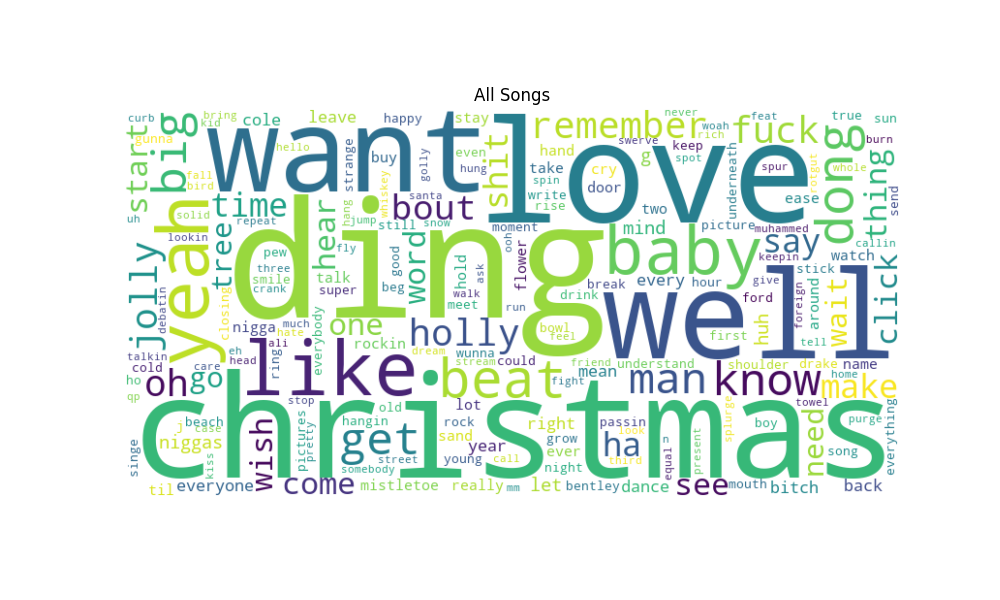
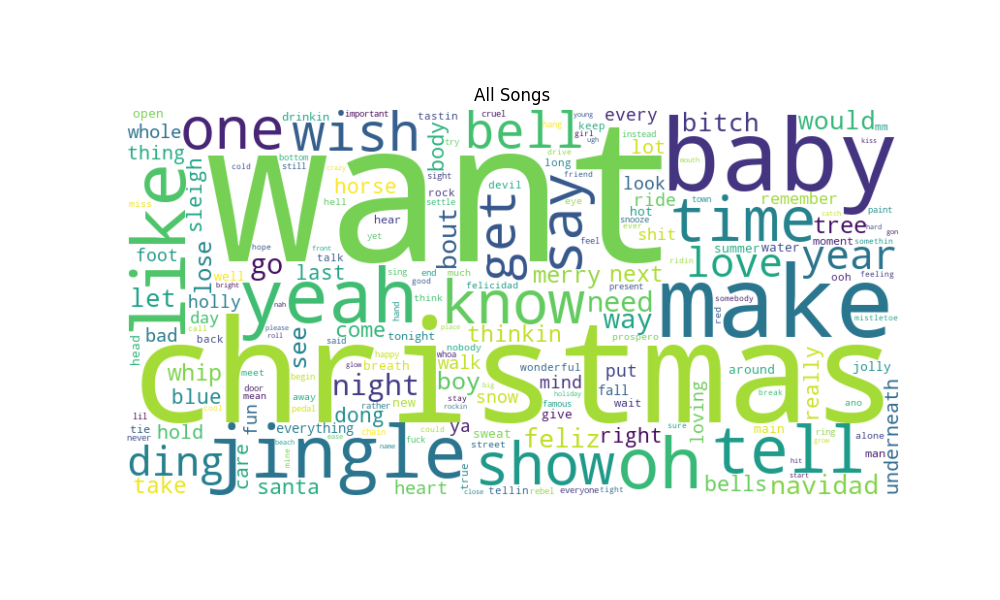
final code cleanup

diff --git a/main.py b/main.py
@@ -5,25 +5,27 @@ import os
 from datetime import date
 import matplotlib.pyplot as plt
 from nrclex import NRCLex
+import pytextrank
 import nltk
 import spacy
-import pytextrank
 from sklearn.feature_extraction.text import TfidfVectorizer
 from sklearn.feature_extraction.text import CountVectorizer
-import pandas as pd
 import numpy as np
 import networkx as nx
-from transformers import pipeline, LongformerTokenizer, LongformerForSequenceClassification
+import warnings
 
-# Load the Longformer tokenizer and model
+warnings.filterwarnings("ignore")
+
+# from transformers import pipeline, LongformerTokenizer, LongformerForSequenceClassification
 # tokenizer = LongformerTokenizer.from_pretrained("allenai/longformer-base-4096")
 # model = LongformerForSequenceClassification.from_pretrained("allenai/longformer-base-4096")
 
 def most_common(song_name, lyrics, plot = False):
     # most common words across all songs
-    normalized_corpus = nltk.word_tokenize(lyrics)
+    lyrics = tn.remove_stopwords(lyrics)
+    lyrics = nltk.word_tokenize(lyrics)
     from collections import Counter
-    c = Counter(normalized_corpus)
+    c = Counter(lyrics)
     print('Unique words: ', len(c))
     most_frequent = c.most_common(300)
     print('Most common word: ' + most_frequent[0][0])
@@ -67,7 +69,7 @@ def plot_NRCLex_emotion(data, title):
 def NRCLex_analysis(song_name, lyrics, plot = False):
     emotion = NRCLex(lyrics)
     data = emotion.affect_frequencies
-    print('emotion: ' + max(data, key=data.get))
+    print('Emotion: ' + max(data, key=data.get))
 
     if plot:
         plot_NRCLex_emotion(data, song_name)
@@ -119,8 +121,40 @@ def summarize(song_name, lyrics, plot = True):
         plt.savefig(path + song_name)
         plt.close()
 
-def individual_analysis(normalized_corpus):
+def tfidf_similarity(normalized_corpus, song_index_to_compare, plot = False):
+    song_names, song_lyrics = zip(*normalized_corpus)
 
+    tv = TfidfVectorizer(min_df=0., max_df=1., use_idf=True)
+    dt_matrix = tv.fit_transform(song_lyrics)
+    dt_matrix = dt_matrix.toarray()
+    similarity_vector = np.dot(dt_matrix, dt_matrix[song_index_to_compare])
+    most_sim_index = np.argmax(similarity_vector)
+    song_name = song_names[most_sim_index]
+    similarity_vector[most_sim_index] = -1
+    print('Most similar to: ' + song_names[np.argmax(similarity_vector)])
+
+    if plot:
+        similarity_graph = nx.Graph()
+        for i, (name, score) in enumerate(zip(song_names, similarity_vector)):
+            similarity_graph.add_node(i, label=name)
+            similarity_graph.add_edge(song_index_to_compare, i, weight=score)
+
+        plt.figure(figsize=(12, 12))
+        pos = nx.spring_layout(similarity_graph)
+        labels = nx.get_node_attributes(similarity_graph, 'label')
+        edge_labels = nx.get_edge_attributes(similarity_graph, 'weight')
+        nx.draw_networkx(similarity_graph, pos, node_color='lime', labels=labels, with_labels=True)
+        nx.draw_networkx_edge_labels(similarity_graph, pos, edge_labels=edge_labels, font_color='red')
+        plt.title(f"Similarity of {song_names[song_index_to_compare]} to Other Songs")
+        path = './plots/' + str(date.today()) + '/similarity/'
+        if not os.path.exists(path):
+            os.makedirs(path)
+        plt.savefig(path + song_name)
+        plt.close()
+
+
+def individual_analysis(normalized_corpus):
+    index = 0
     for song_name, lyrics in normalized_corpus:
         print('============={}============='.format(song_name.center(40, '=')))
 
@@ -132,57 +166,33 @@ def individual_analysis(normalized_corpus):
         # transformers_analysis(lyrics)
         # spaCy summarization
         summarize(song_name, lyrics, True)
+        # similarity
+        tfidf_similarity(normalized_corpus, index, True)
 
+        index += 1
         print('='*66)
         print()
 
 def overall_analysis(corpus):
+    print('============={}============='.format('Overall'.center(40, '=')))
+
     song_names, song_lyrics = zip(*corpus)
     corpus = song_lyrics
     corpus_concat = ' '.join(corpus)
     noramalized_corpus_concat = tn.normalize_corpusV2(corpus_concat, stopword_removal=True, text_lemmatization=True)
 
     most_common('All Songs', noramalized_corpus_concat, True)
-    plot_NRCLex_emotion(noramalized_corpus_concat, 'All Songs')
+    NRCLex_analysis('All Songs', noramalized_corpus_concat, True)
 
-    # # transformer analysis
-    # sentiment_analyzer = pipeline("sentiment-analysis")
-    # result = sentiment_analyzer(corpus_concat)
-    # print(result)
+    print('=' * 66)
+    print()
 
-def tfidf_similarity(normalized_corpus, song_index_to_compare):
-    song_names, song_lyrics = zip(*normalized_corpus)
-
-    tv = TfidfVectorizer(min_df=0., max_df=1., use_idf=True)
-    dt_matrix = tv.fit_transform(song_lyrics)
-    dt_matrix = dt_matrix.toarray()
-    similarity_vector = np.dot(dt_matrix, dt_matrix[song_index_to_compare])
-
-    # Print the similarity scores
-    similarity_scores = pd.DataFrame({'Song': song_names, 'Similarity': similarity_vector})
-    print(similarity_scores)
-
-    # Create a similarity graph
-    similarity_graph = nx.Graph()
-    for i, (name, score) in enumerate(zip(song_names, similarity_vector)):
-        similarity_graph.add_node(i, label=name)
-        similarity_graph.add_edge(song_index_to_compare, i, weight=score)
-
-    plt.figure(figsize=(12, 12))
-    pos = nx.spring_layout(similarity_graph)
-    labels = nx.get_node_attributes(similarity_graph, 'label')
-    edge_labels = nx.get_edge_attributes(similarity_graph, 'weight')
-    nx.draw_networkx(similarity_graph, pos, node_color='lime', labels=labels, with_labels=True)
-    nx.draw_networkx_edge_labels(similarity_graph, pos, edge_labels=edge_labels, font_color='red')
-    plt.title(f"Similarity of {song_names[song_index_to_compare]} to Other Songs")
-    plt.show()
 
 def clustering(normalized_corpus):
     song_names, song_lyrics = zip(*normalized_corpus)
     stop_words = nltk.corpus.stopwords.words('english')
     cv = CountVectorizer(ngram_range=(1, 4), max_df=4, stop_words=stop_words)
     cv_matrix = cv.fit_transform(song_lyrics)
-    print(cv_matrix.shape)
 
     from sklearn.manifold import TSNE
     tsne = TSNE(n_components=2, random_state=0, n_iter=10000, perplexity=2)
@@ -194,18 +204,22 @@ def clustering(normalized_corpus):
     for label, x, y in zip(song_names, T[:, 0], T[:, 1]):
         plt.annotate(label, xy=(x + 1, y + 1), xytext=(0, 0), textcoords='offset points')
 
-    plt.show()
+    path = './plots/' + str(date.today()) + '/'
+    if not os.path.exists(path):
+        os.makedirs(path)
+    plt.savefig(path + 'clustering')
+    plt.close()
 
 
 def main():
     print('starting program...')
 
-    # save top 20 song lyrics to txt files
+    # save top song lyrics to txt files
     # scraper.web_scrape_lyrics(save=True, amount=30)
 
     # load corpus from specified directory
-    corpus = scraper.load_corpus_from_saved_files('./resources/test2/')
-    # at this point, corpus is a list of stringse
+    corpus = scraper.load_corpus_from_saved_files()
+    # at this point, corpus is a list of strings
     # each element being the lyrics to one song
     # not cleaned or tokenized
 
@@ -213,24 +227,17 @@ def main():
     normalized_corpus = tn.normalize_corpus(corpus)
     print('done normalizing.')
 
-
-    print('starting analysis...\n\n\n')
+    print('starting analysis...')
     # analysis of each individual song's lyrics in corpus
     individual_analysis(normalized_corpus)
 
     # analysis of all the lyrics of all the songs (use a different form of normalization)
-    # overall_analysis(corpus)
-
-    # Tfidf similarity (of whole corpus)
-    # tfidf_similarity(normalized_corpus, 0)
+    overall_analysis(corpus)
 
     # Clustering (of whole corpus)
-    # clustering(normalized_corpus)
+    clustering(normalized_corpus)
 
-    print('\n\n\nprogram done.')
-
-
+    print('program done.')
 
 if __name__ == '__main__':
     main()
-

diff --git a/scraper.py b/scraper.py
@@ -86,7 +86,7 @@ def save_lyrics(all_lyrics):
         f.close()
     print('saved files to ' + path + '/')
 
-def load_corpus_from_saved_files(path='./resources/test/'):
+def load_corpus_from_saved_files(path='./resources/' + str(date.today()) + '/'):
     print('creating corpus from resources...')
     corpus = []
     file_names = [f for f in os.listdir(path) if os.path.isfile(os.path.join(path, f))]
